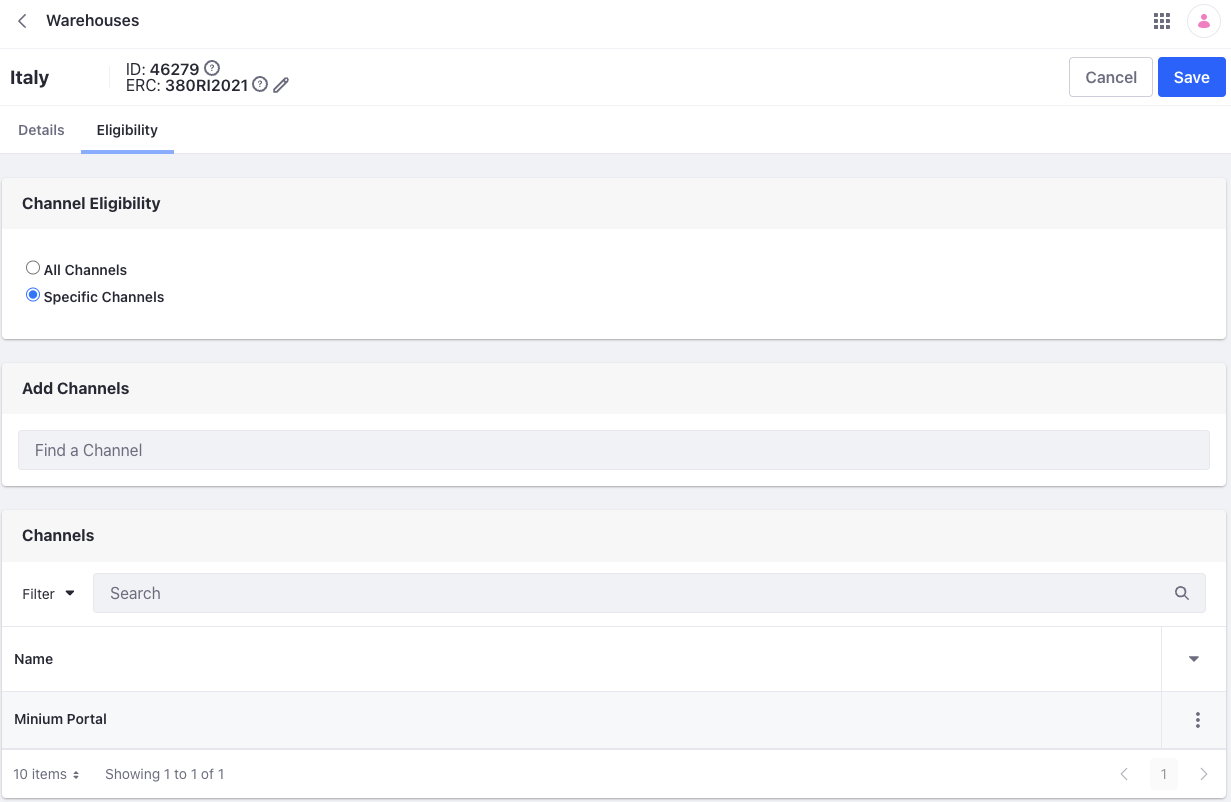
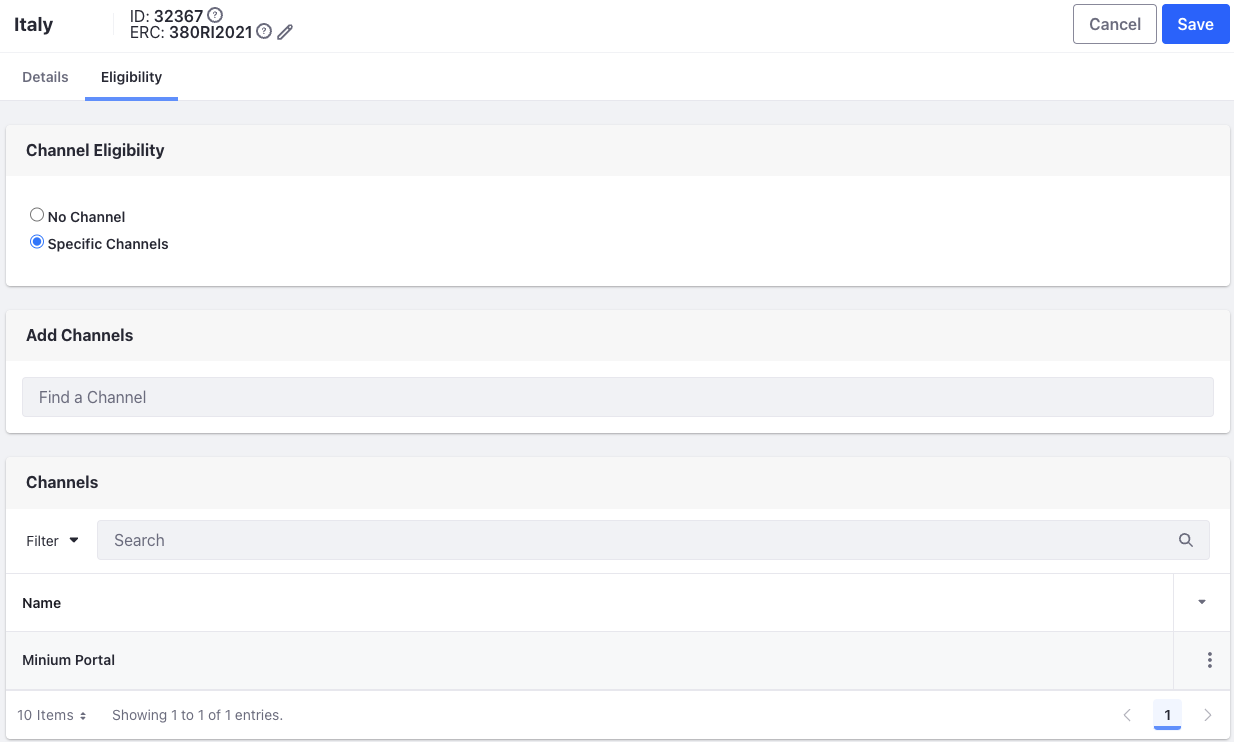
LRDOCS-13221 warehouse eligibility minor fix

diff --git a/docs/commerce/latest/en/inventory-management/warehouse-reference-guide.md b/docs/commerce/latest/en/inventory-management/warehouse-reference-guide.md
@@ -27,9 +27,9 @@ If you're using Commerce 2.0 or 2.1, the warehouse settings are located in the *
 
 ## Channels
 
-You can set the warehouse to serve all the available channels or select specific ones. To do this, click the *Eligibility* tab and select the *Specific Channels* radio button. Then, search for a channel and click *Select*.
+By default a warehouse doesn't serve any channels. To use a warehouse in a channel, click the *Eligibility* tab and select the *Specific Channels* radio button. Then, search for the channel and click *Select*.
 
-![Set the warehouse to serve all available channels or select specific ones.](./warehouse-reference-guide/images/02.png)
+![Set the warehouse to serve one or more channels.](./warehouse-reference-guide/images/02.png)
 
 ### Liferay DXP 7.4 U46/GA46 and Below
 

diff --git a/docs/commerce/latest/en/inventory-management/setting-up-warehouses.md b/docs/commerce/latest/en/inventory-management/setting-up-warehouses.md
@@ -51,7 +51,7 @@ Before creating a warehouse, you must enable the applicable country and region o
 
    Click the *Eligibility* tab, select *Specific Channels*, enter a channel name and click *Select*.
 
-   ![Associate the warehouse to all available channels or specific channels.](./setting-up-warehouses/images/03.png)
+   ![Associate the warehouse to one or more channels.](./setting-up-warehouses/images/03.png)
 
 1. Click *Save*.
 
